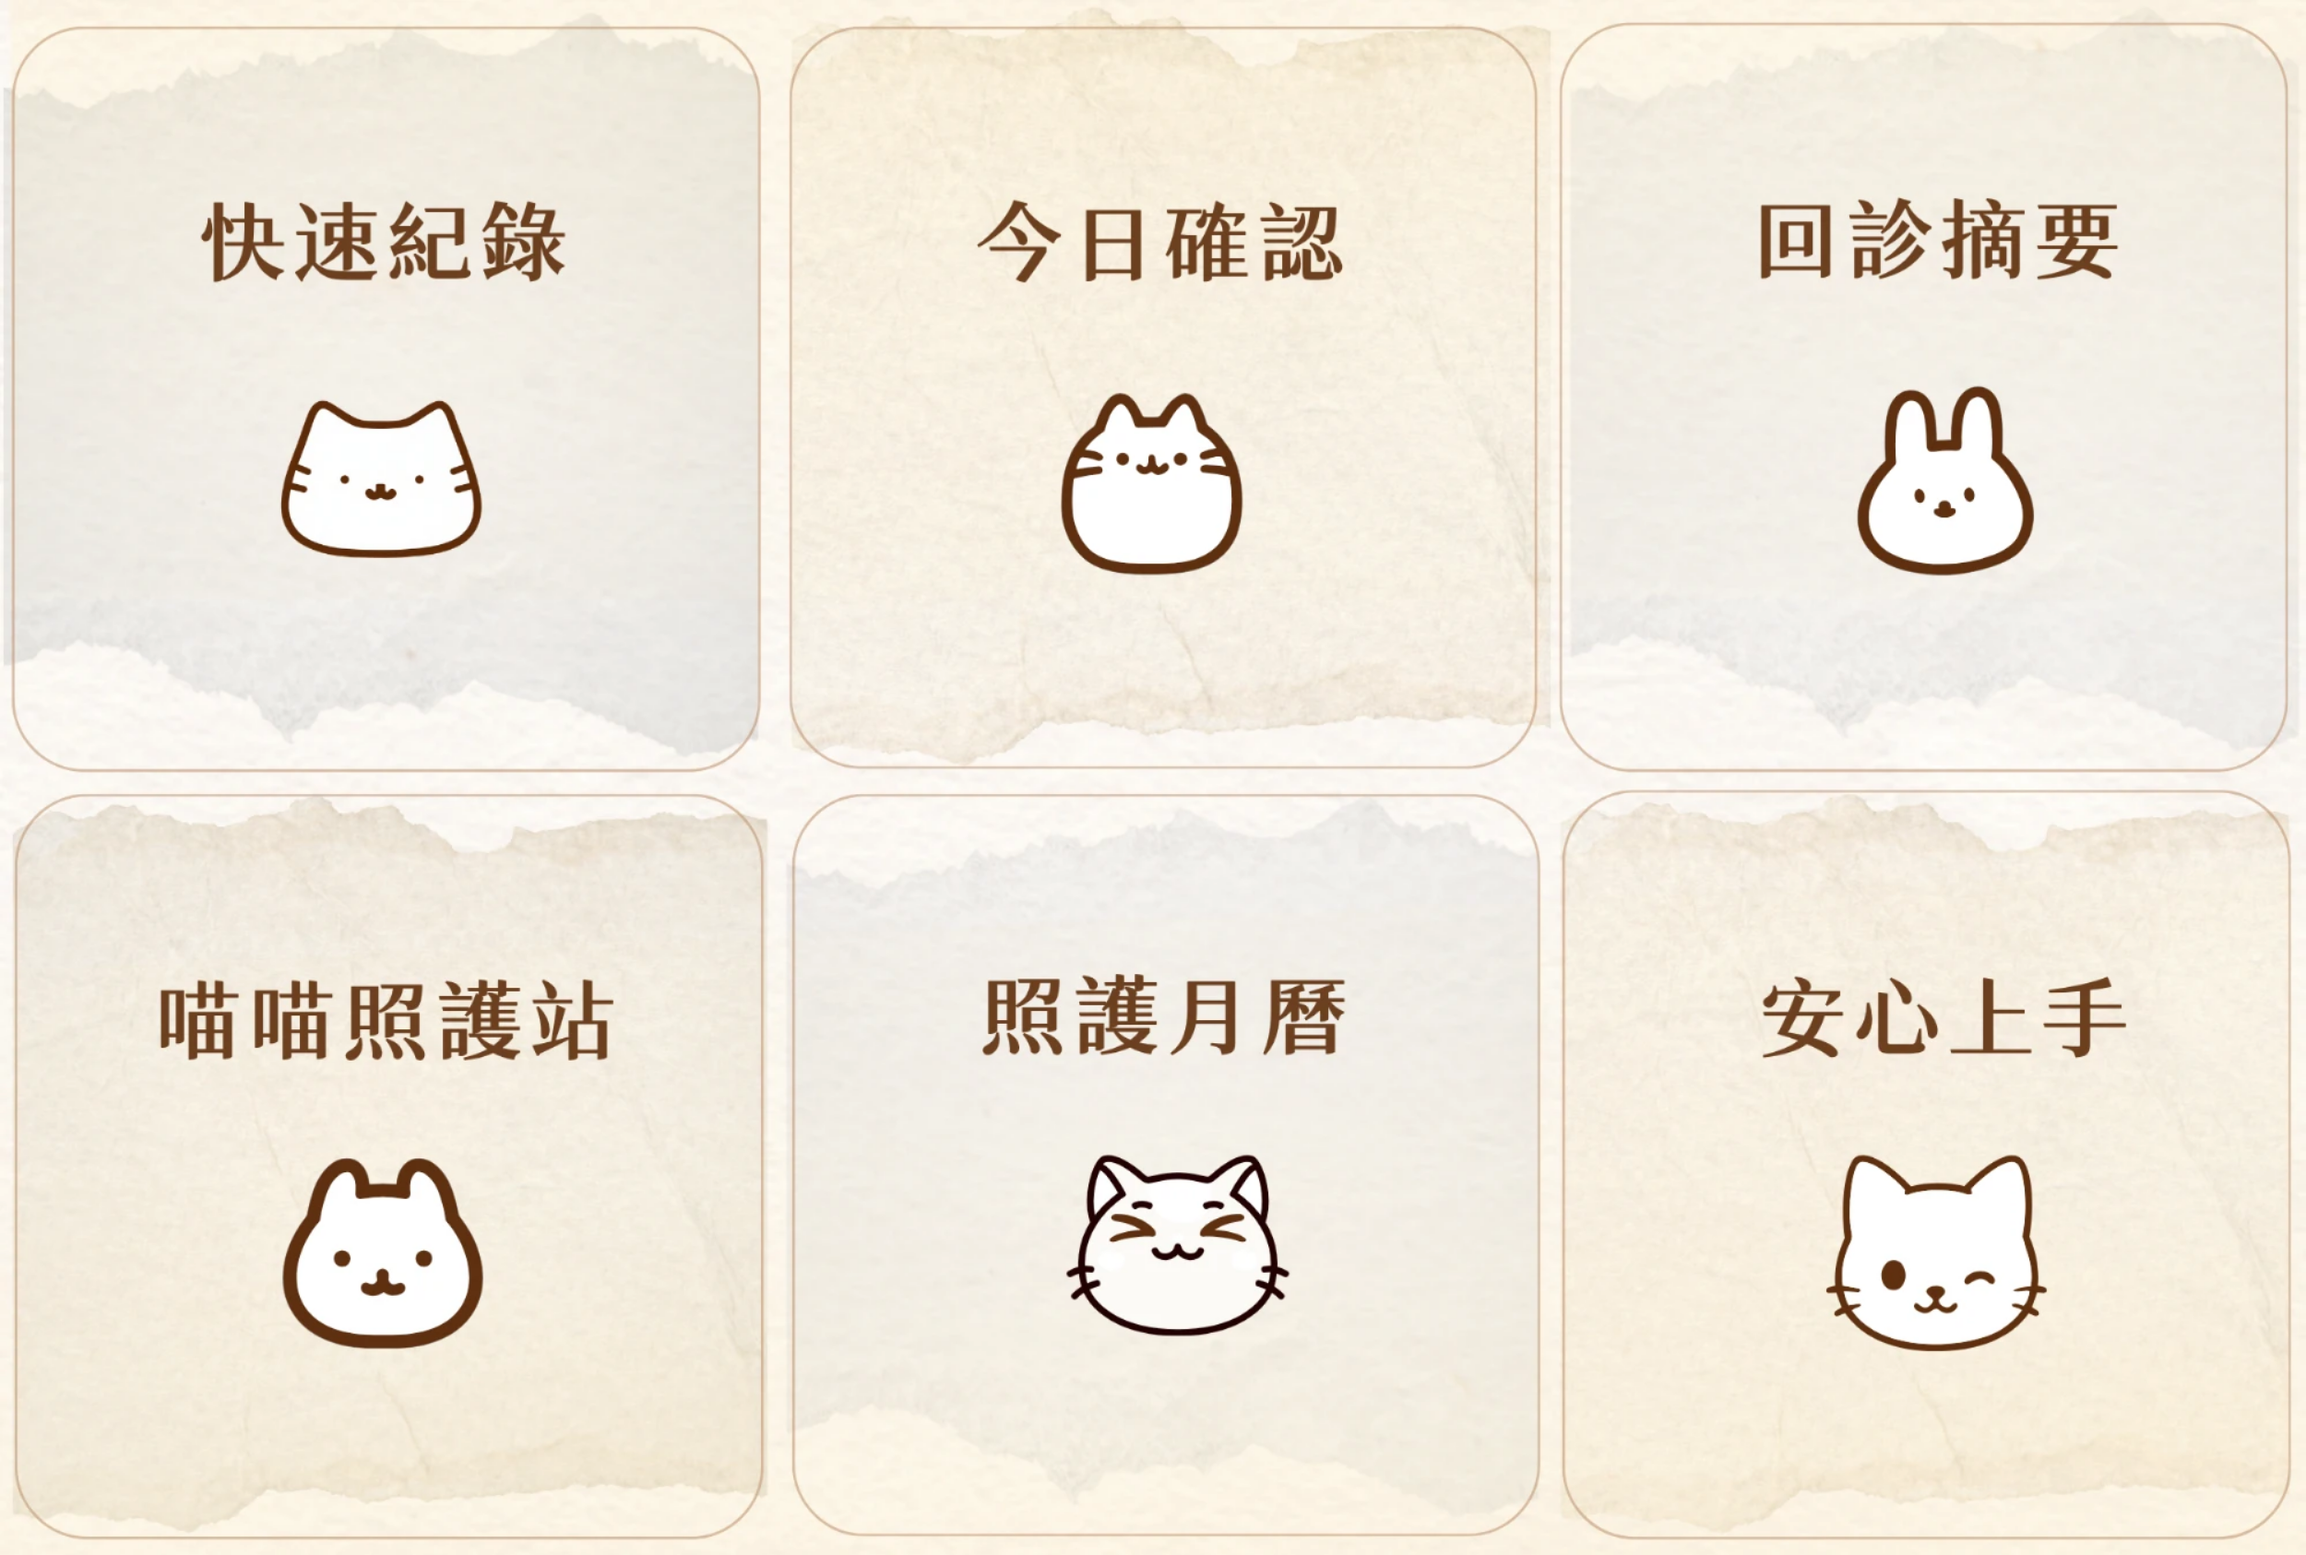
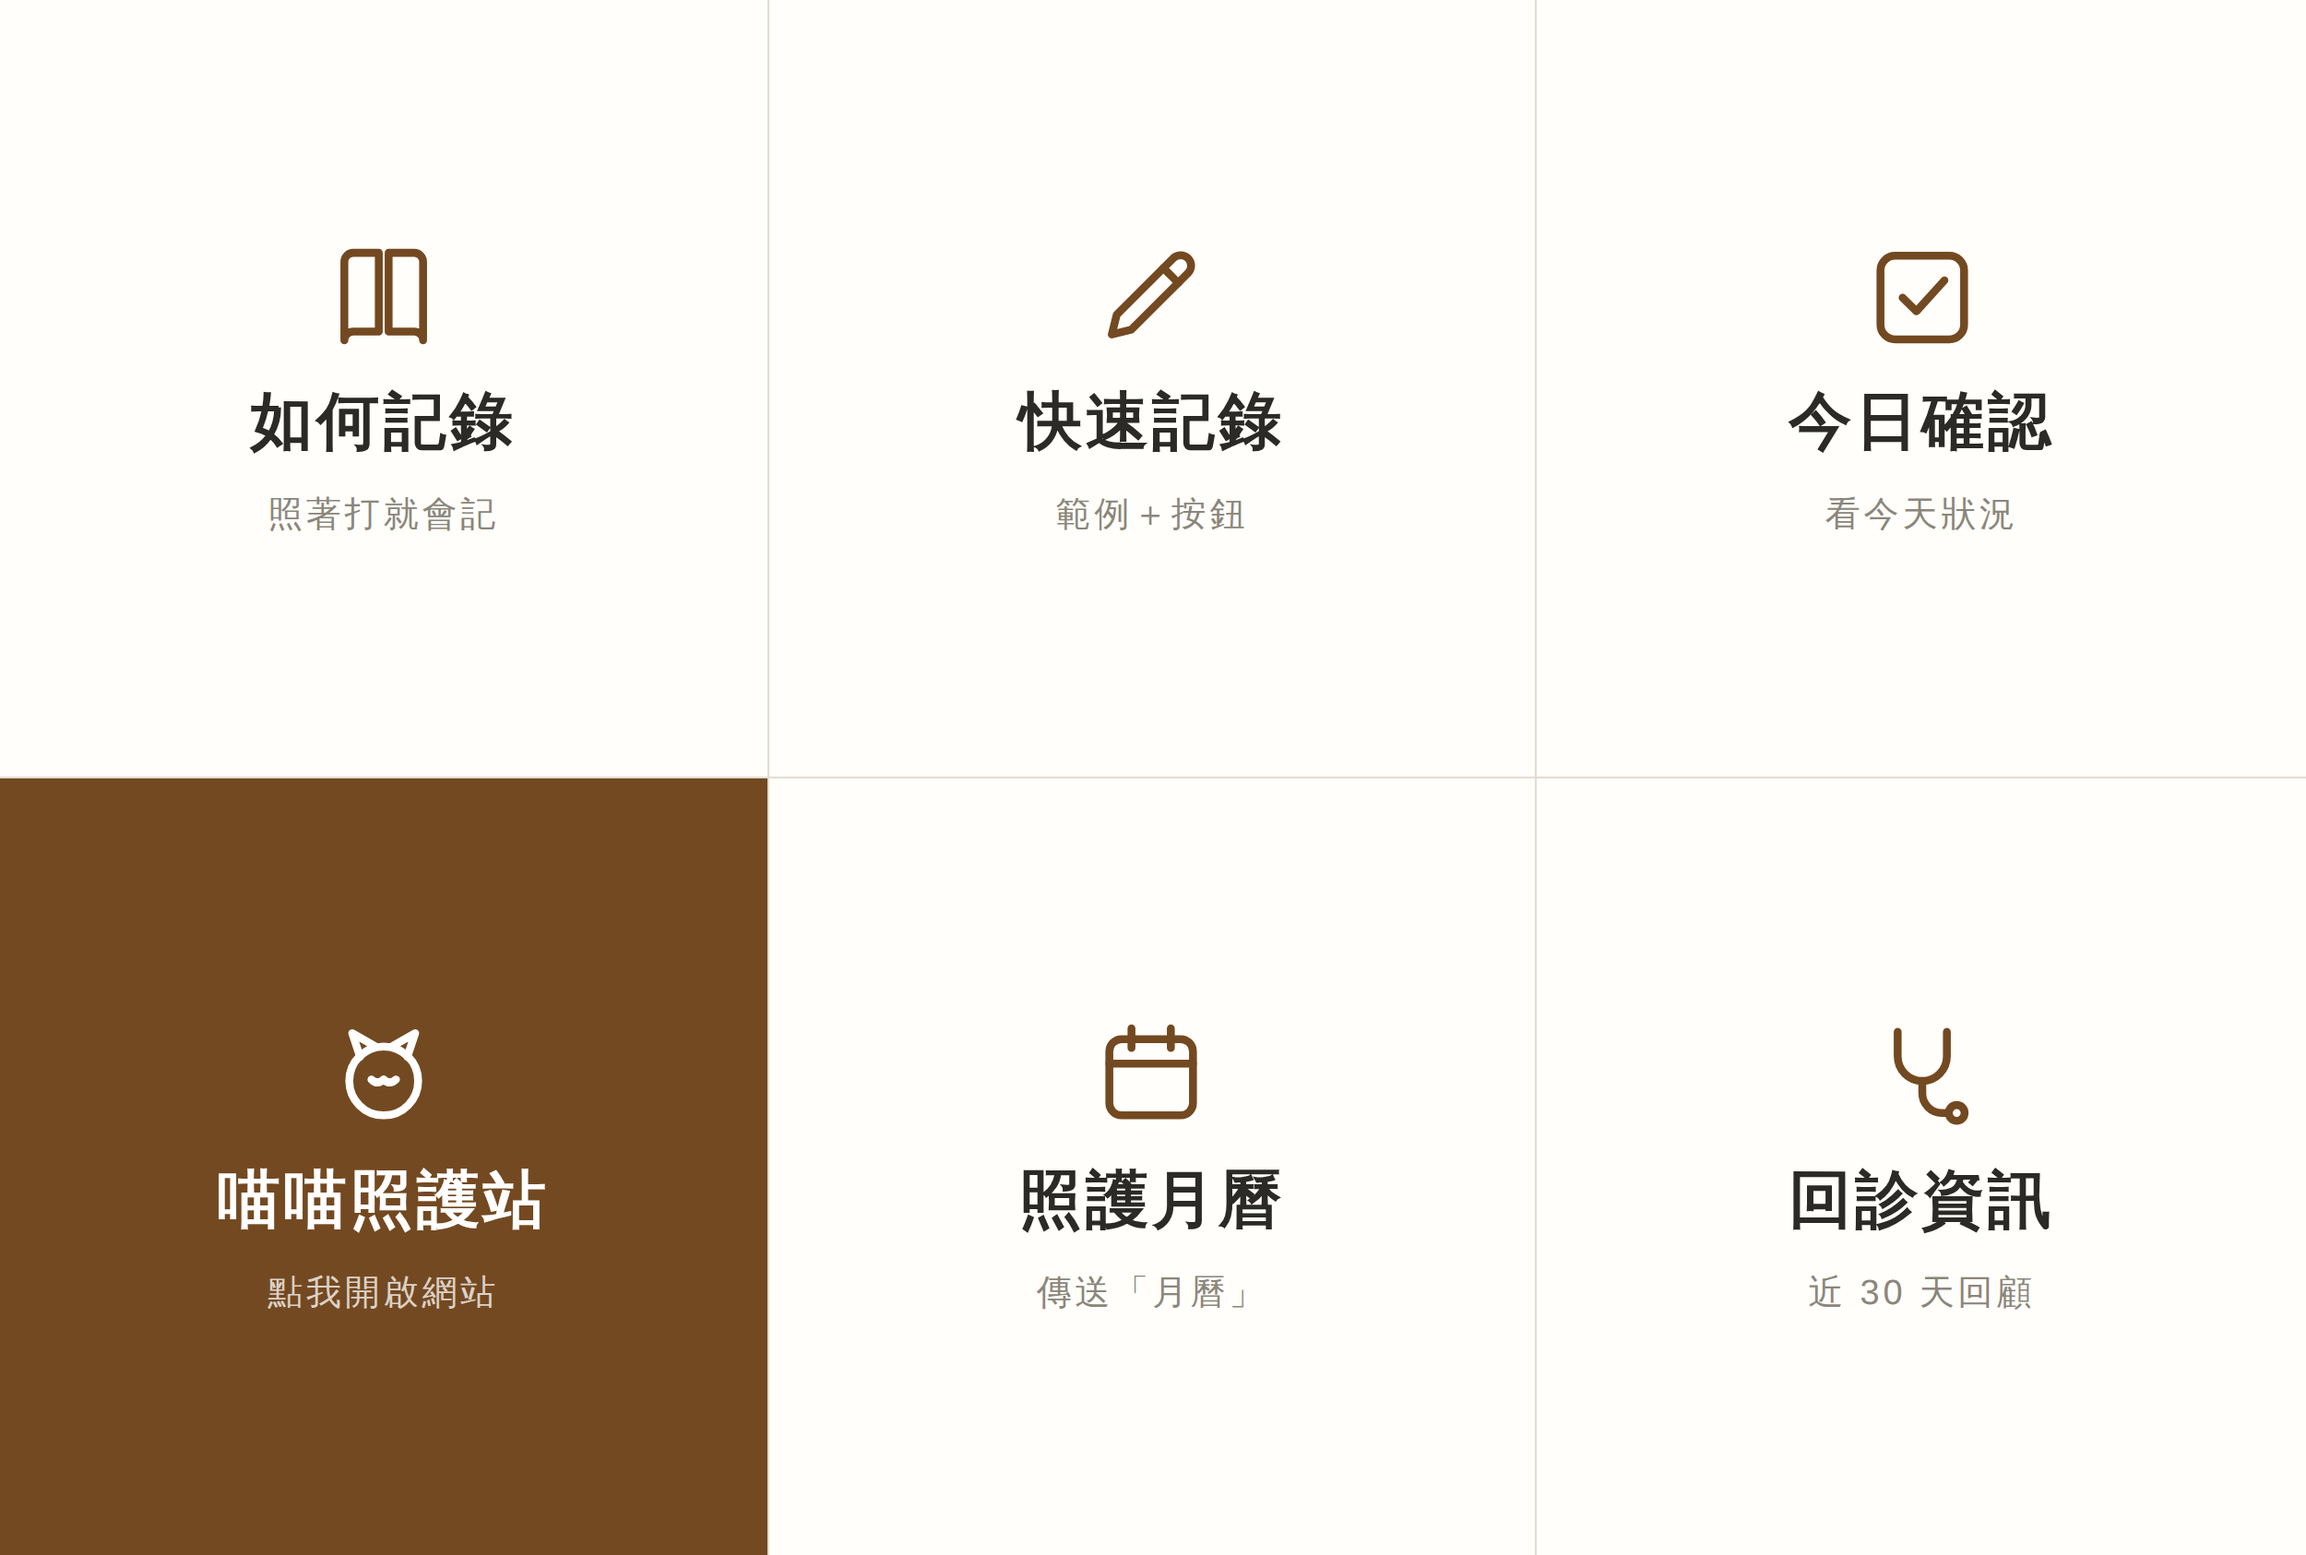
圖文選單改版 6 鍵＋完整記法改為 Flex 卡（不再半句斷行）
圖文選單（rich menu）改為使用者要的排列並接好連結：
  如何記錄  快速記錄  今日確認
  喵喵照護站 照護月曆  回診資訊
- 如何記錄／快速記錄／今日確認／照護月曆＝傳訊息觸發對應卡片
- 喵喵照護站＝直接開網站首頁
- 回診資訊＝直接開網站 #go=trend（近 30 天回顧頁）
- 重繪 richmenu.png、更新 create-rich-menu.mjs 對應動作，並已套用到 LINE

完整記法教學：純文字訊息會跟著手機系統字級放大而在半句處斷行
（例：冠關 水↵20），改為 recordTutorialFlex()：字級鎖小、每句都短、
指令左說明右，1x 與 1.35x 放大字都不折行；已通過 LINE validate。

diff --git a/beta/src/flex.js b/beta/src/flex.js
@@ -443,6 +443,80 @@ export function exampleCard() {
     { type: 'bubble', size: 'mega', header: header('怎麼記？打字最快'), body, footer });
 }
 
+// ---------- 完整記法教學卡（固定小字、短句不換行） ----------
+// 純文字訊息會跟著手機系統字級放大而在半句處斷行（例：「冠關 水↵20」）；
+// 改用 Flex 卡把字級鎖小、每句都短到不會折行，指令左、說明右，乾淨好讀。
+export function recordTutorialFlex() {
+  const rows = [];
+  const sec = (title) => {
+    rows.push({ type: 'separator', margin: 'xl', color: '#F0EADF' });
+    rows.push(text(title, { size: 'xs', weight: 'bold', color: C.olive, margin: 'md' }));
+  };
+  // 指令左（暖墨、粗、不換行）＋ 說明右（沙灰、極小、不換行）
+  const cmd = (command, gloss = '') => {
+    const line = { type: 'box', layout: 'baseline', margin: 'sm', contents: [
+      text(command, { size: 'sm', weight: 'bold', color: C.ink, flex: 0 })
+    ] };
+    if (gloss) line.contents.push(text(gloss, { size: 'xxs', color: C.muted, flex: 1, align: 'end', gravity: 'bottom' }));
+    rows.push(line);
+  };
+
+  rows.push(text('照著打就會記，數字是幾克或幾 ml', { size: 'xs', color: C.muted, wrap: true }));
+
+  sec('喝水');
+  cmd('水 60');
+
+  sec('吃飯（可帶品牌）');
+  cmd('乾糧 4');
+  cmd('罐頭 30');
+  cmd('罐頭 皇家 30', '帶品牌');
+  cmd('乾糧 希爾斯 20', '帶品牌');
+  cmd('罐頭 30 加水 10', '另外加水');
+
+  sec('用藥');
+  cmd('藥 早 已吃');
+  cmd('藥 心臟藥 晚 已吃', '指定藥名');
+  cmd('已吃／未餵／吐掉／拒吃');
+
+  sec('症狀・精神');
+  cmd('吐 白色泡沫');
+  cmd('大便 偏軟');
+  cmd('尿尿');
+  cmd('營養補充 益生菌');
+  cmd('精神 活動力差');
+  cmd('備註 今天梳毛');
+
+  sec('一次記多筆');
+  cmd('水20 乾糧4 藥早已吃', '一句記三筆');
+
+  sec('補登・指定時間');
+  cmd('昨天 21:30 水 20');
+  cmd('14:30 水 20');
+
+  sec('多隻貓');
+  cmd('蚵仔', '打名字＝之後都記牠');
+  cmd('冠關 水 20', '只記一筆給別隻');
+
+  sec('記錯了');
+  cmd('改 54', '改上一筆數量');
+  cmd('剩 20', '沒吃完扣掉');
+  cmd('刪除', '刪掉上一筆');
+
+  const body = {
+    type: 'box', layout: 'vertical', paddingAll: '20px', backgroundColor: BODY_BG,
+    contents: rows
+  };
+  const footer = {
+    type: 'box', layout: 'vertical', paddingAll: '14px', paddingStart: '20px', paddingEnd: '20px', backgroundColor: FOOTER_COLOR,
+    contents: [
+      text('先到照護站設好「常吃的食物」，之後打品牌就會自動算熱量與水分。',
+        { size: 'xxs', color: C.brand, wrap: true })
+    ]
+  };
+  return bubble('完整記法：水 60、罐頭 皇家 30、藥 早 已吃、水20 乾糧4 藥早已吃、昨天 21:30 水 20',
+    { type: 'bubble', size: 'mega', header: header('完整記法・照著打就會'), body, footer });
+}
+
 export function menuFlex() {
   const row = (cells) => ({ type: 'box', layout: 'horizontal', spacing: 'md', margin: 'md', contents: cells });
   const body = {

diff --git a/beta/richmenu/richmenu.html b/beta/richmenu/richmenu.html
@@ -43,34 +43,34 @@
 <body>
   <div class="menu">
     <div class="cell">
+      <svg viewBox="0 0 24 24"><path d="M4 5.2A1.8 1.8 0 0 1 5.8 3.4H11v16H5.8A1.8 1.8 0 0 0 4 21.2z"/><path d="M20 5.2A1.8 1.8 0 0 0 18.2 3.4H13v16h5.2A1.8 1.8 0 0 1 20 21.2z"/></svg>
+      <div class="label">如何記錄</div>
+      <div class="cmd">照著打就會記</div>
+    </div>
+    <div class="cell">
       <svg viewBox="0 0 24 24"><path d="M4 20l1-4L16.5 4.5a2.1 2.1 0 0 1 3 3L8 19l-4 1z"/><path d="M14.5 6.5l3 3"/></svg>
-      <div class="label">快速紀錄</div>
-      <div class="cmd">傳送「紀錄」</div>
+      <div class="label">快速記錄</div>
+      <div class="cmd">範例＋按鈕</div>
     </div>
     <div class="cell">
       <svg viewBox="0 0 24 24"><rect x="3.5" y="4" width="17" height="17" rx="3"/><path d="M8 12.5l2.8 2.8L16.5 9"/></svg>
       <div class="label">今日確認</div>
-      <div class="cmd">傳送「今天」</div>
-    </div>
-    <div class="cell">
-      <svg viewBox="0 0 24 24"><path d="M7 3.5v5a5 5 0 0 0 10 0v-5"/><path d="M12 13.5v2.5a4 4 0 0 0 4 4h1"/><circle cx="19" cy="20" r="1.6"/></svg>
-      <div class="label">回診摘要</div>
-      <div class="cmd">傳送「回診摘要」</div>
+      <div class="cmd">看今天狀況</div>
     </div>
     <div class="cell accent">
       <svg viewBox="0 0 24 24"><circle cx="12" cy="13.5" r="7"/><path d="M7.2 8.6 L5.6 3.8 L10.2 6.4"/><path d="M16.8 8.6 L18.4 3.8 L13.8 6.4"/><path d="M9.5 13.2 q1.2 1.2 2.5 0"/><path d="M12 13.2 q1.2 1.2 2.5 0"/></svg>
       <div class="label">喵喵照護站</div>
-      <div class="cmd">點我直接開啟網站</div>
+      <div class="cmd">點我開啟網站</div>
     </div>
     <div class="cell">
       <svg viewBox="0 0 24 24"><rect x="3.5" y="5" width="17" height="15.5" rx="2.5"/><path d="M3.5 10h17M8 2.8v4M16 2.8v4"/></svg>
-      <div class="label">月曆</div>
+      <div class="label">照護月曆</div>
       <div class="cmd">傳送「月曆」</div>
     </div>
     <div class="cell">
-      <svg viewBox="0 0 24 24"><ellipse cx="12" cy="15.5" rx="4" ry="3.2"/><circle cx="6.8" cy="10.6" r="1.8"/><circle cx="12" cy="8.8" r="1.8"/><circle cx="17.2" cy="10.6" r="1.8"/></svg>
-      <div class="label">安心上手</div>
-      <div class="cmd">傳送「安心上手」</div>
+      <svg viewBox="0 0 24 24"><path d="M7 3.5v5a5 5 0 0 0 10 0v-5"/><path d="M12 13.5v2.5a4 4 0 0 0 4 4h1"/><circle cx="19" cy="20" r="1.6"/></svg>
+      <div class="label">回診資訊</div>
+      <div class="cmd">近 30 天回顧</div>
     </div>
   </div>
 </body>

diff --git a/beta/src/index.js b/beta/src/index.js
@@ -9,7 +9,7 @@ import { handleApi } from './api.js';
 import { verifyLineSignature, replyOrPush, replyOrPushFlex, replyMessages, pushText, pushMessages, getProfile, getAccessToken, checkAccessToken } from './line.js';
 import { hasAnyReminder, parseReminderSettings, buildReminderLines, reminderMessage, visitReminderMessage } from './reminders.js';
 import { shortDate } from './replies.js';
-import { recordFlex, multiRecordFlex, todayFlex, websiteFlex, menuFlex, recordMenuFlex, weekFlex, monthFlex, recentFlex, reminderFlex, visitReminderFlex, welcomeFlex, onboardCard, menuCell, exampleCard, petDataFlex, deletedCard } from './flex.js';
+import { recordFlex, multiRecordFlex, todayFlex, websiteFlex, menuFlex, recordMenuFlex, recordTutorialFlex, weekFlex, monthFlex, recentFlex, reminderFlex, visitReminderFlex, welcomeFlex, onboardCard, menuCell, exampleCard, petDataFlex, deletedCard } from './flex.js';
 import { isBetaAllowed, normalizeCode, gateText } from './plan.js';
 import {
   ensureUser, updateUser, listPets, createPet, resolveDefaultPet, getPet, updatePetFields, createFoodItem, createMedItem,
@@ -678,7 +678,7 @@ async function handleTextMessage(event, env, baseUrl) {
 
   // 說明選單卡的教學子頁
   if (['如何記錄', '如何紀錄', '完整記法', '如何記', '怎麼記', '怎麼記錄', '記法'].includes(text)) {
-    await replyOrPush(env, event, recordTutorial());
+    await replyOrPushFlex(env, event, recordTutorialFlex(), recordTutorial());
     return;
   }
   if (text === '如何記餵藥' || text === '如何記藥') {
